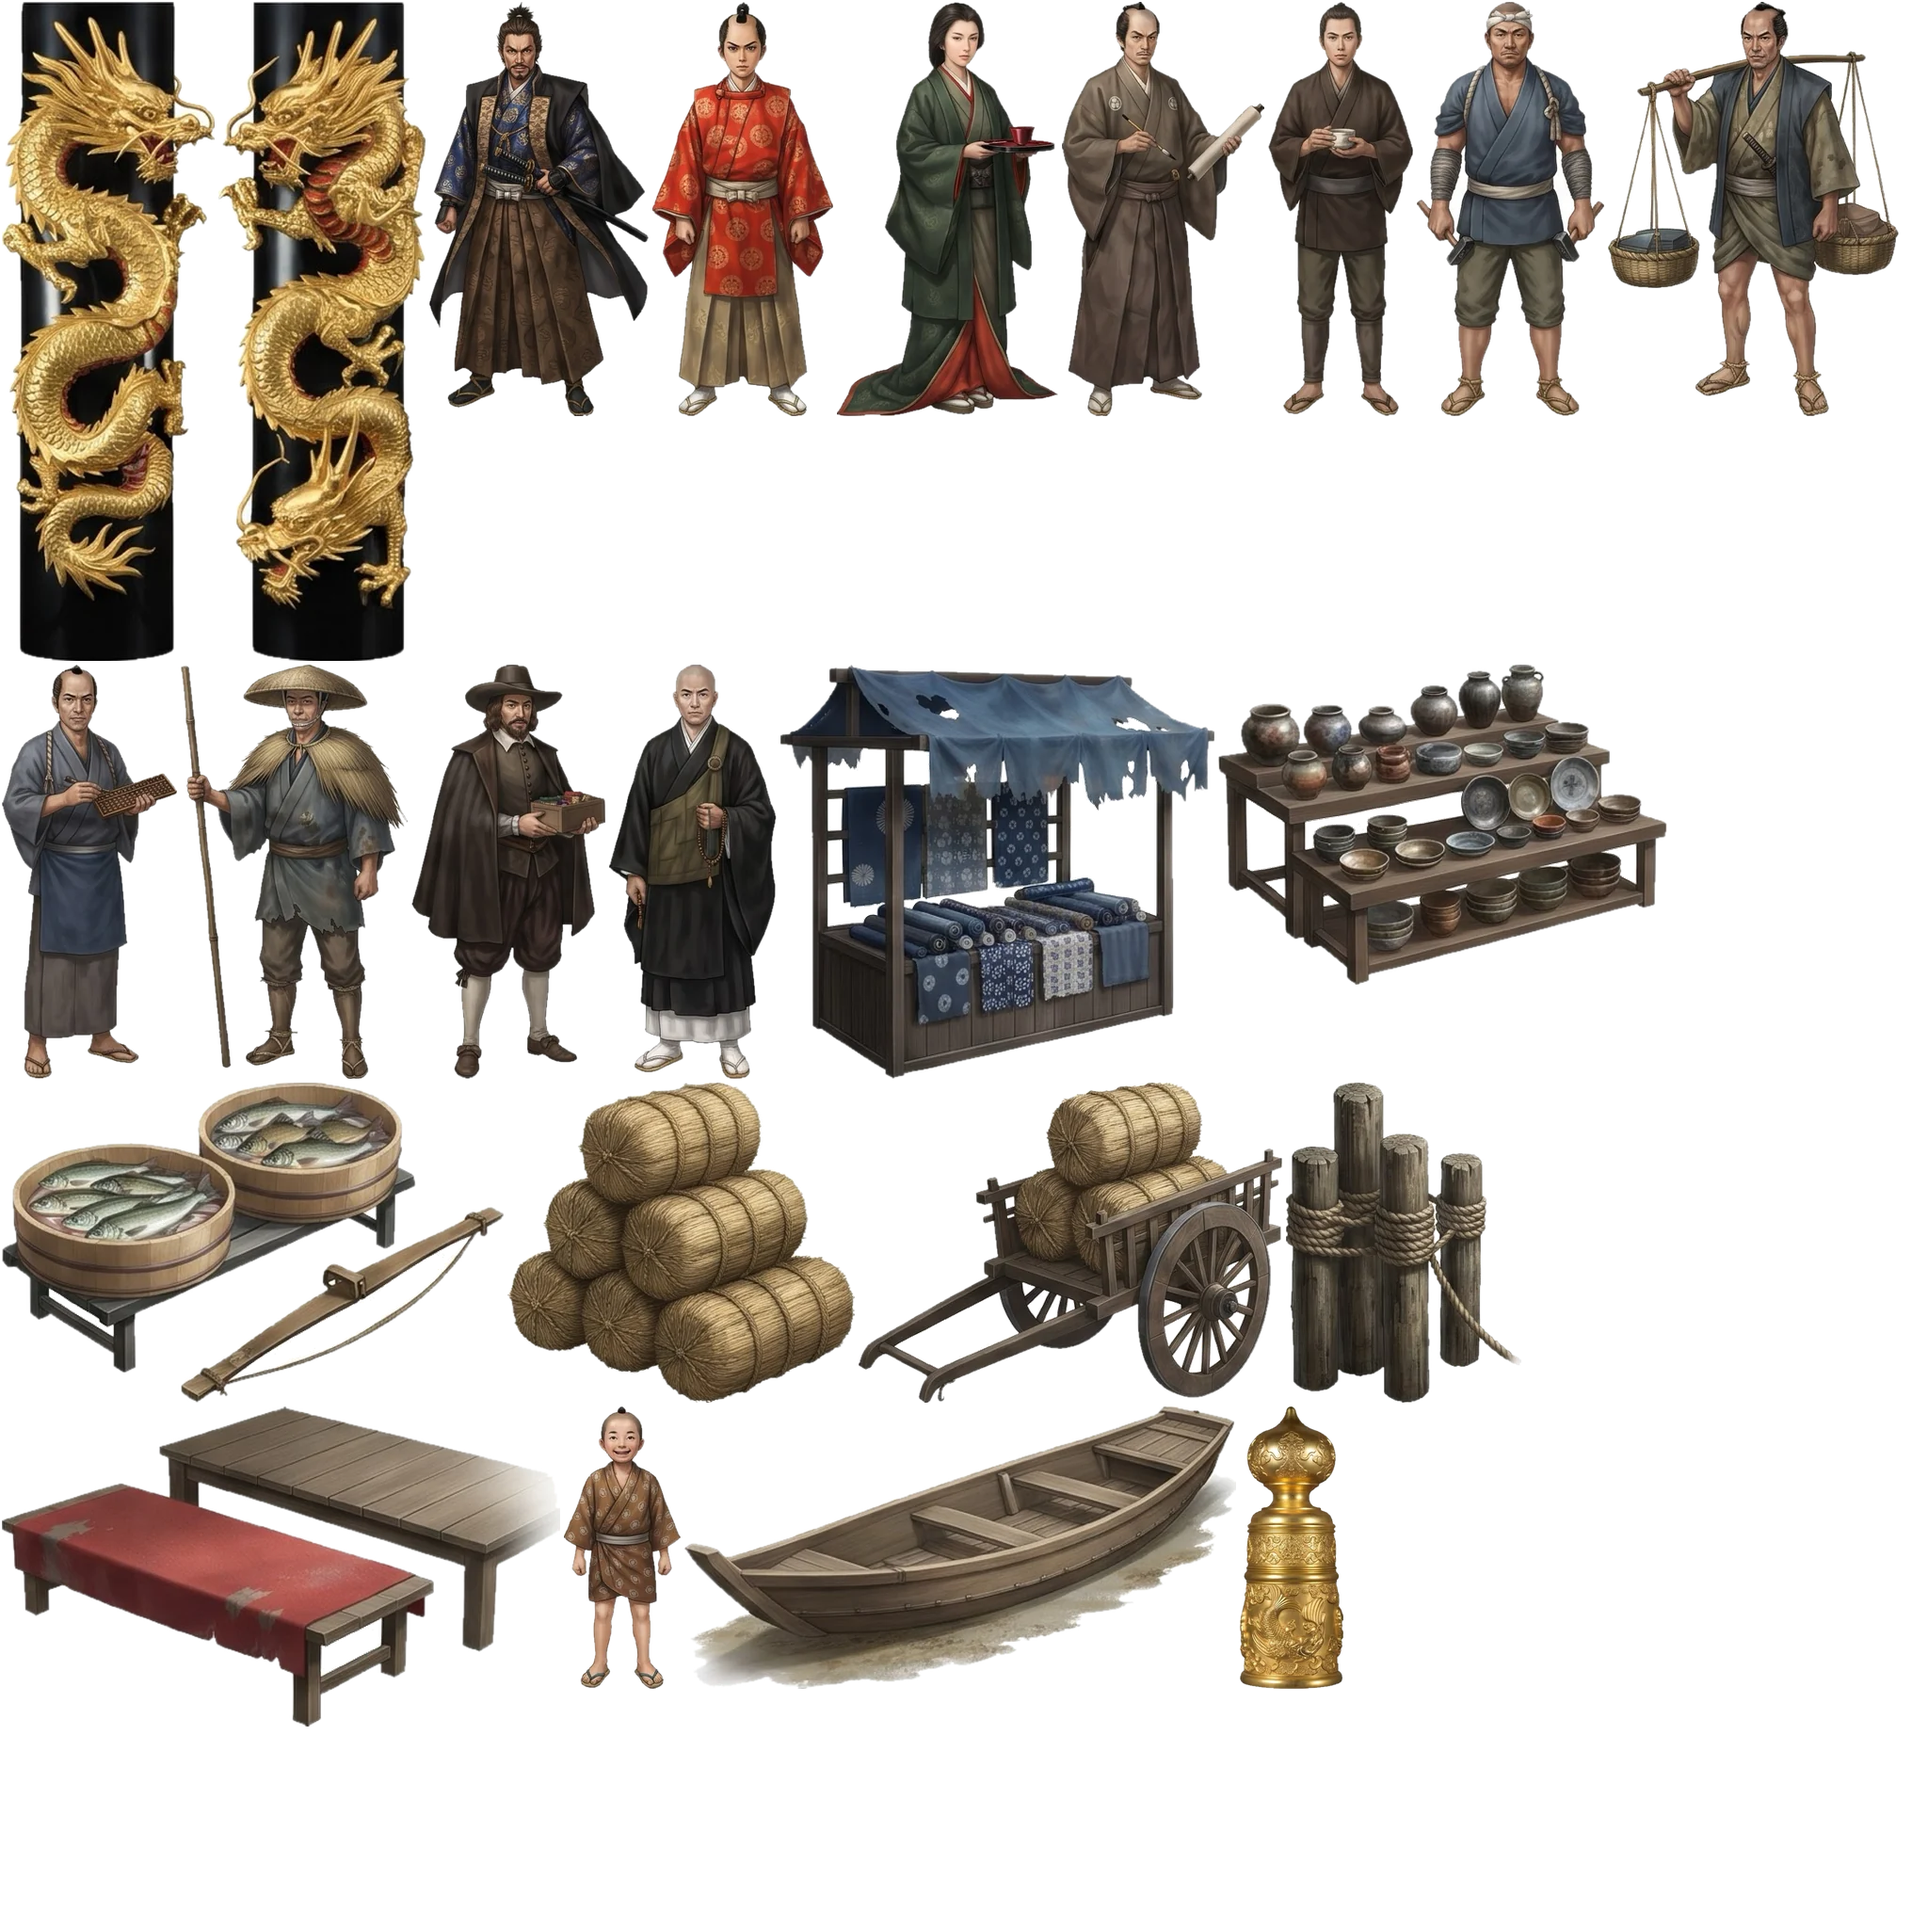
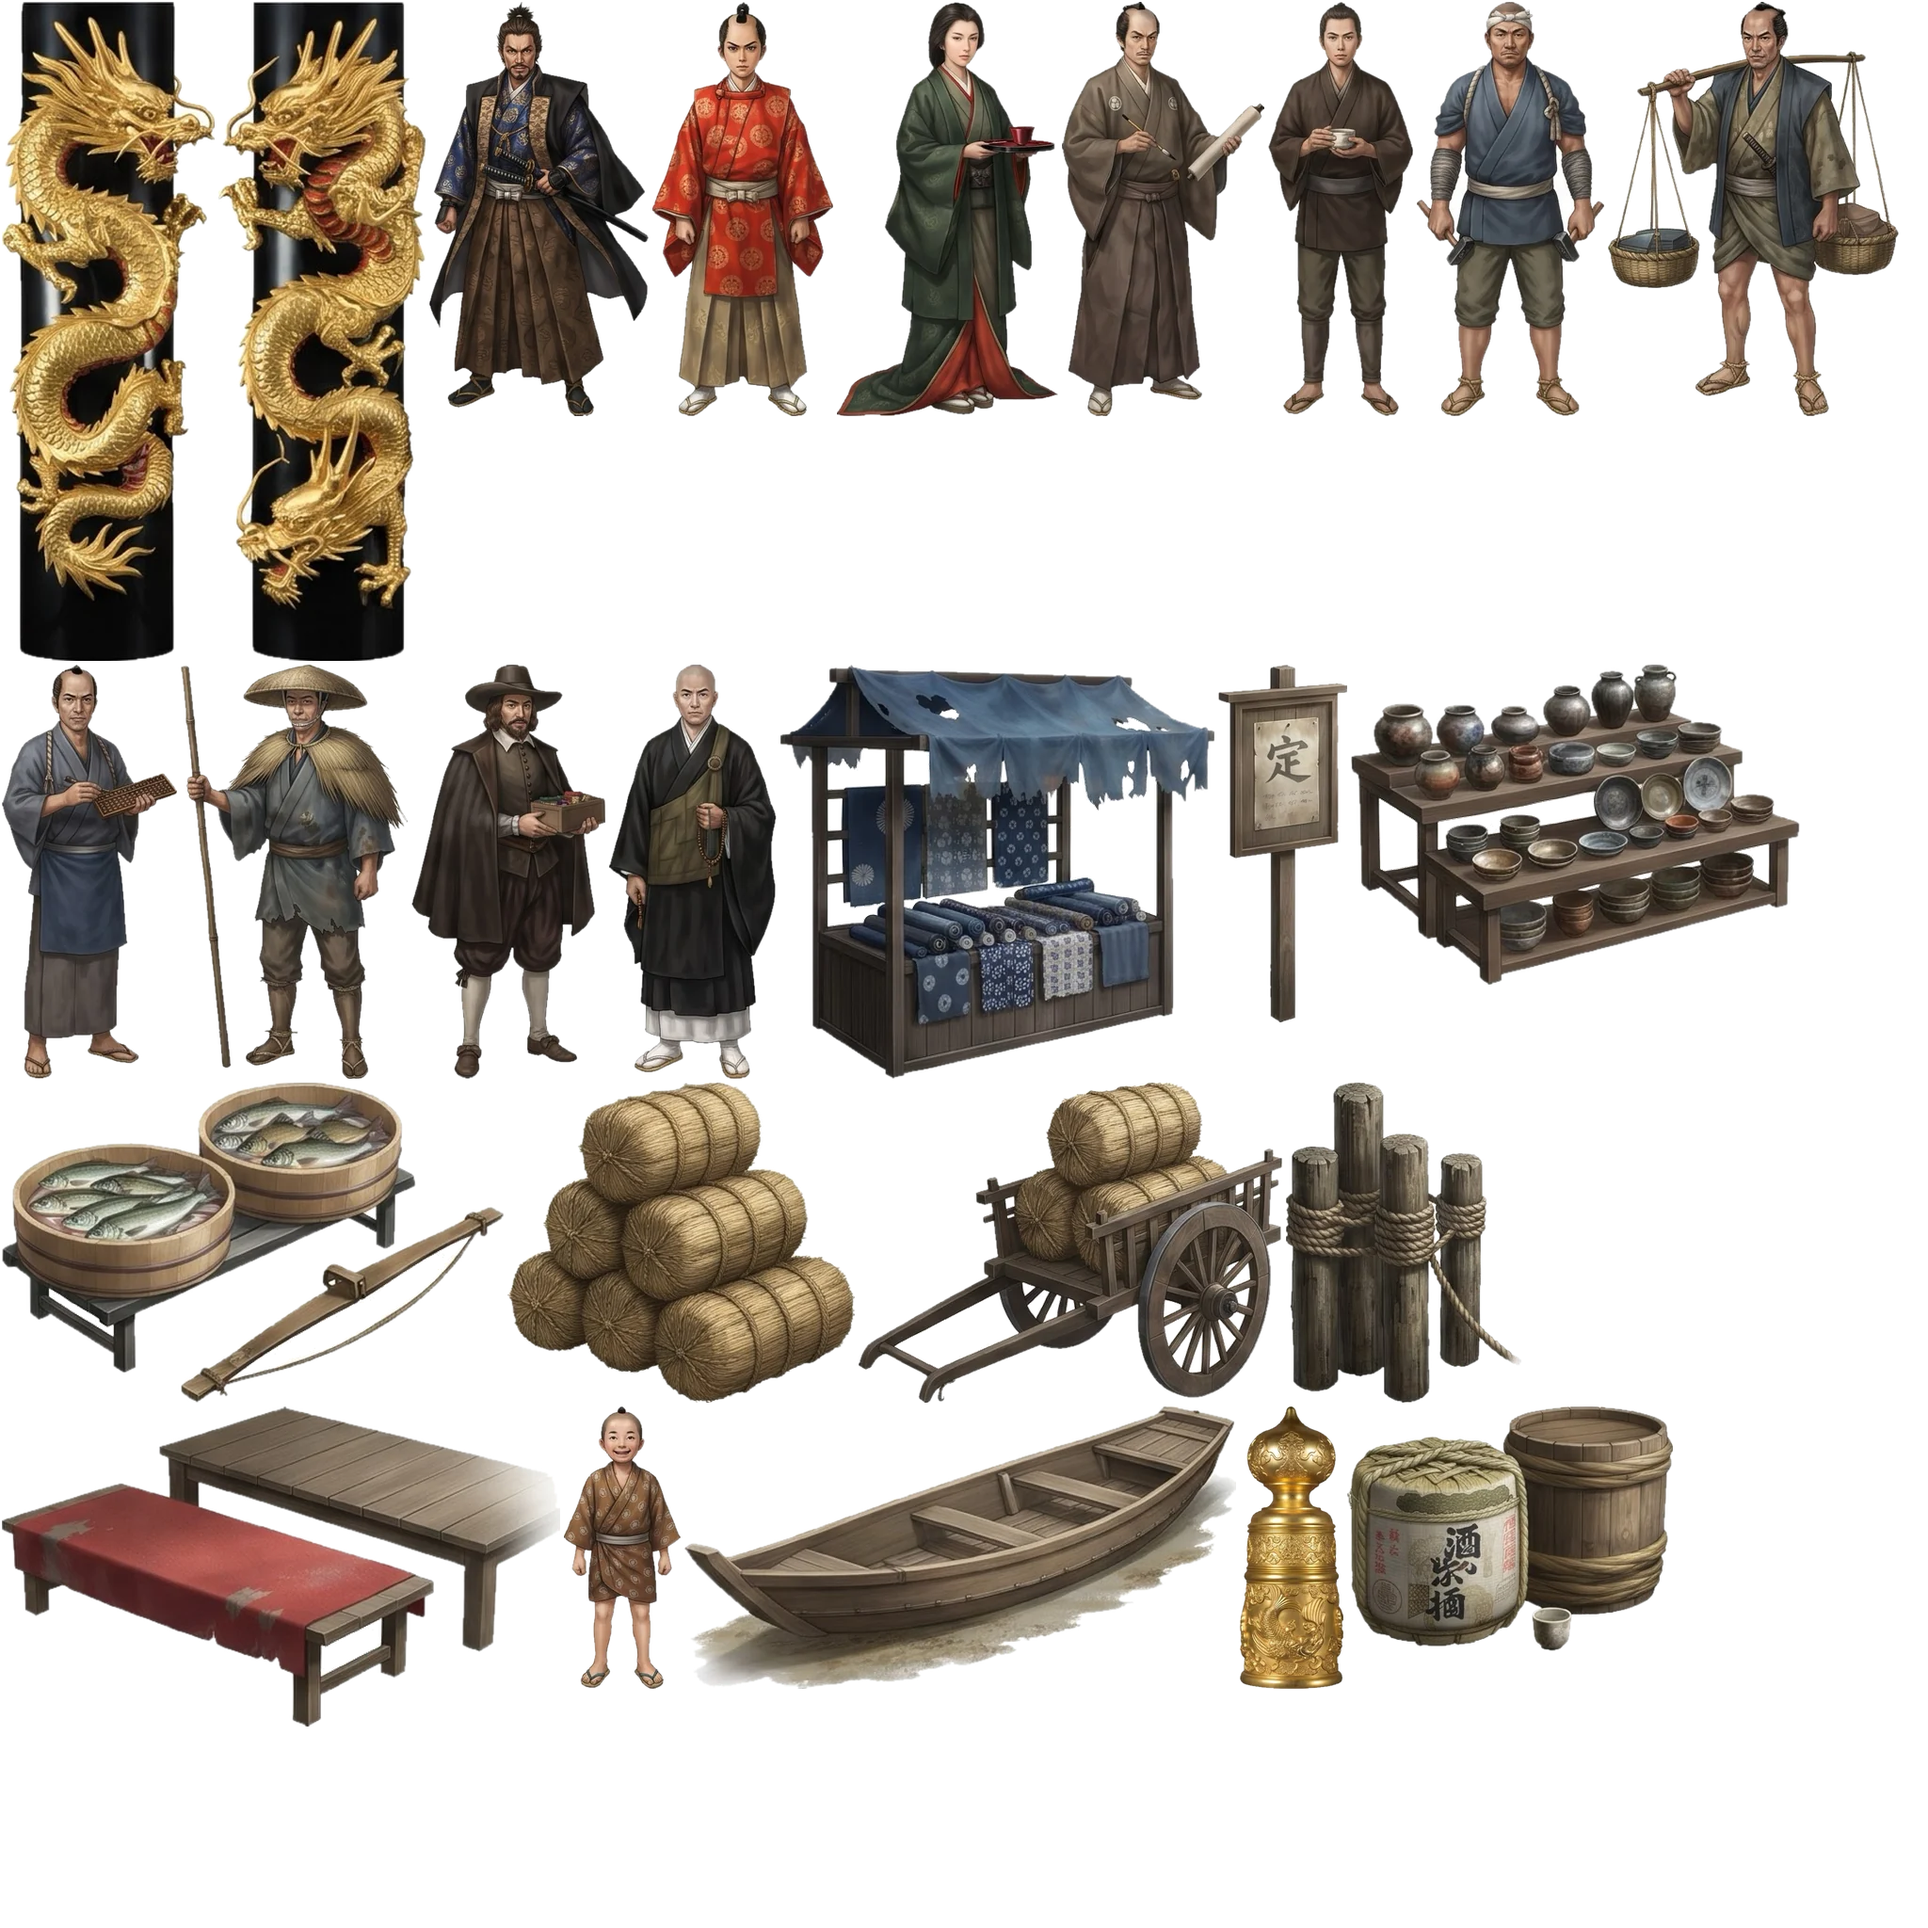
お城さんぽ共通素材: 酒樽と菰かぶり・高札を追加（deco_azuchi2 を詰め直し）
Claude-Session: https://claude.ai/code/session_01QTjZDpZm1Fxvj3TZaquPHL

Changed region(s): [[0.625, 0.3438, 0.9375, 0.5312], [0.6875, 0.7188, 0.875, 0.875]]

diff --git a/oshiro/common/README.md b/oshiro/common/README.md
@@ -18,7 +18,7 @@
 | `deco_himeji.webp` | 城の装飾（姫路で描き起こし）: 鯱・鬼瓦・懸魚・華頭窓・社・松・桜・楠・長持・俵・弾薬箱・姥が石・鉄砲 | 姫路（atlas の5ページ目として読む） |
 | `deco_inuyama.webp` | 小物（犬山で描き起こし）: 山車・からくり人形・鵜匠・鵜・幟（赤・青）・城の模型・歴代城主の肖像・看板・人力車・狛犬・手水舎・絵馬・盆栽・具足櫃・槍掛け・鉄砲掛け・縁台・自販機 | 犬山（atlas の5ページ目として読む） |
 | `deco_azuchi.webp` | 装飾（安土で描き起こし）: 金の鯱 `az_shachi`・唐破風 `az_karahafu`・千鳥破風 `az_chidori`・のれんと提灯（天下布武 `az_noren_tenka`/`az_lan_tenka`、桐紋3種 `az_noren_kiri`・`az_noren_kiri53`・`az_noren_kiri57`/`az_lan_kiri`・`az_lan_kiri53`・`az_lan_kiri57`）。桐紋は豊臣家の大阪城などにも使える | 安土（atlas の5ページ目として読む） |
-| `deco_azuchi2.webp` | 安土の人物と小物: 織田信長 `az_nobunaga`・小姓 `az_kosho`・奥の女房 `az_nyobo`・狩野派の絵師 `az_eshi`・茶人 `az_chajin`・普請の石工 `az_ishiku`・近江の商人 `az_omi`・楽市の店主 `az_tenshu`・湖の船頭 `az_sendo`・町の子ども `az_kodomo`・南蛮の商人 `az_nanban`・摠見寺の僧 `az_sokenso`／楽市の露店 `az_roten`・焼き物の露店 `az_yakimono`・魚売りの盤台 `az_bandai`・米俵の山 `az_komedawara`・荷車 `az_niguruma`・湊の杭 `az_kui`・小舟 `az_kobune`・茶屋の床几 `az_shogi`・金の擬宝珠 `az_giboshi`・柱の昇り龍/降り龍 `az_ryu_up`/`az_ryu_dn`。町人・商人・僧・小物は戦国〜江戸初めの城下ならどこでも使える | 安土（atlas の6ページ目として読む） |
+| `deco_azuchi2.webp` | 安土の人物と小物: 織田信長 `az_nobunaga`・小姓 `az_kosho`・奥の女房 `az_nyobo`・狩野派の絵師 `az_eshi`・茶人 `az_chajin`・普請の石工 `az_ishiku`・近江の商人 `az_omi`・楽市の店主 `az_tenshu`・湖の船頭 `az_sendo`・町の子ども `az_kodomo`・南蛮の商人 `az_nanban`・摠見寺の僧 `az_sokenso`／楽市の露店 `az_roten`・焼き物の露店 `az_yakimono`・魚売りの盤台 `az_bandai`・米俵の山 `az_komedawara`・荷車 `az_niguruma`・湊の杭 `az_kui`・小舟 `az_kobune`・茶屋の床几 `az_shogi`・酒樽と菰かぶり `az_sake`・高札（「定」） `az_kosatsu`・金の擬宝珠 `az_giboshi`・柱の昇り龍/降り龍 `az_ryu_up`/`az_ryu_dn`。町人・商人・僧・小物は戦国〜江戸初めの城下ならどこでも使える | 安土（atlas の6ページ目として読む） |
 | `atlas.json` | 切り出し位置。`s` が共通4ページ（`[ページ,x,y,幅,高さ,高さm]`）、`deco.himeji` / `deco.inuyama` / `deco.azuchi` がそれぞれの装飾ページ（ページ番号4）、`deco.azuchi2` は安土の6ページ目（ページ番号5） | 新しい城はこれを使う |
 
 ### 室内の模様（tiles）
